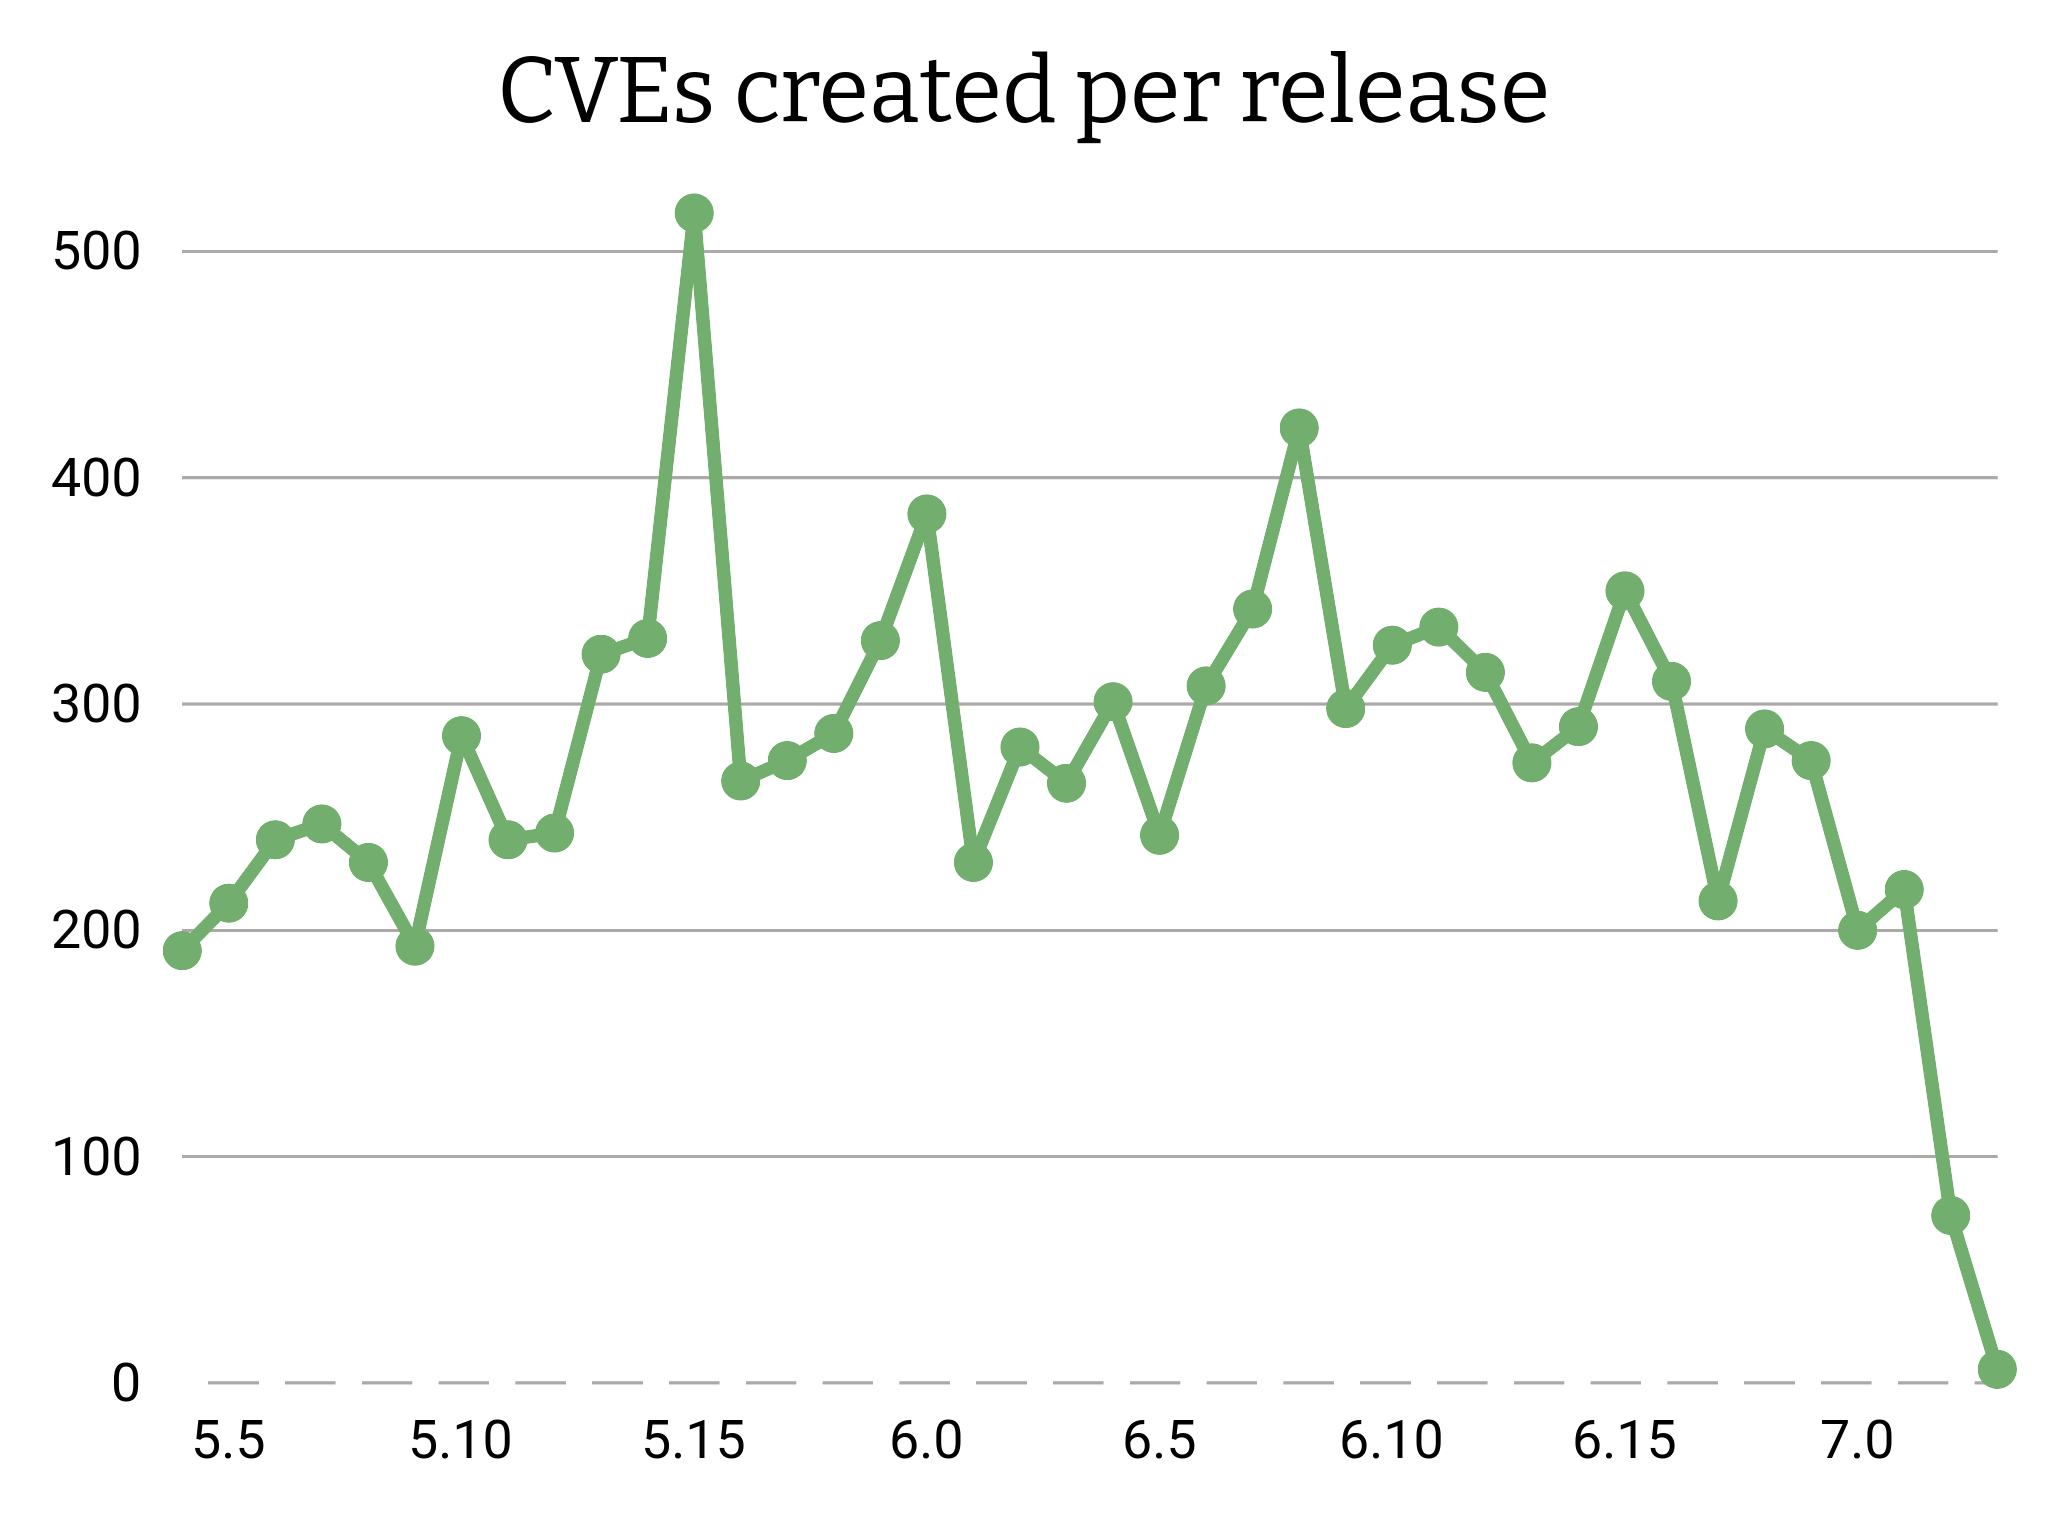
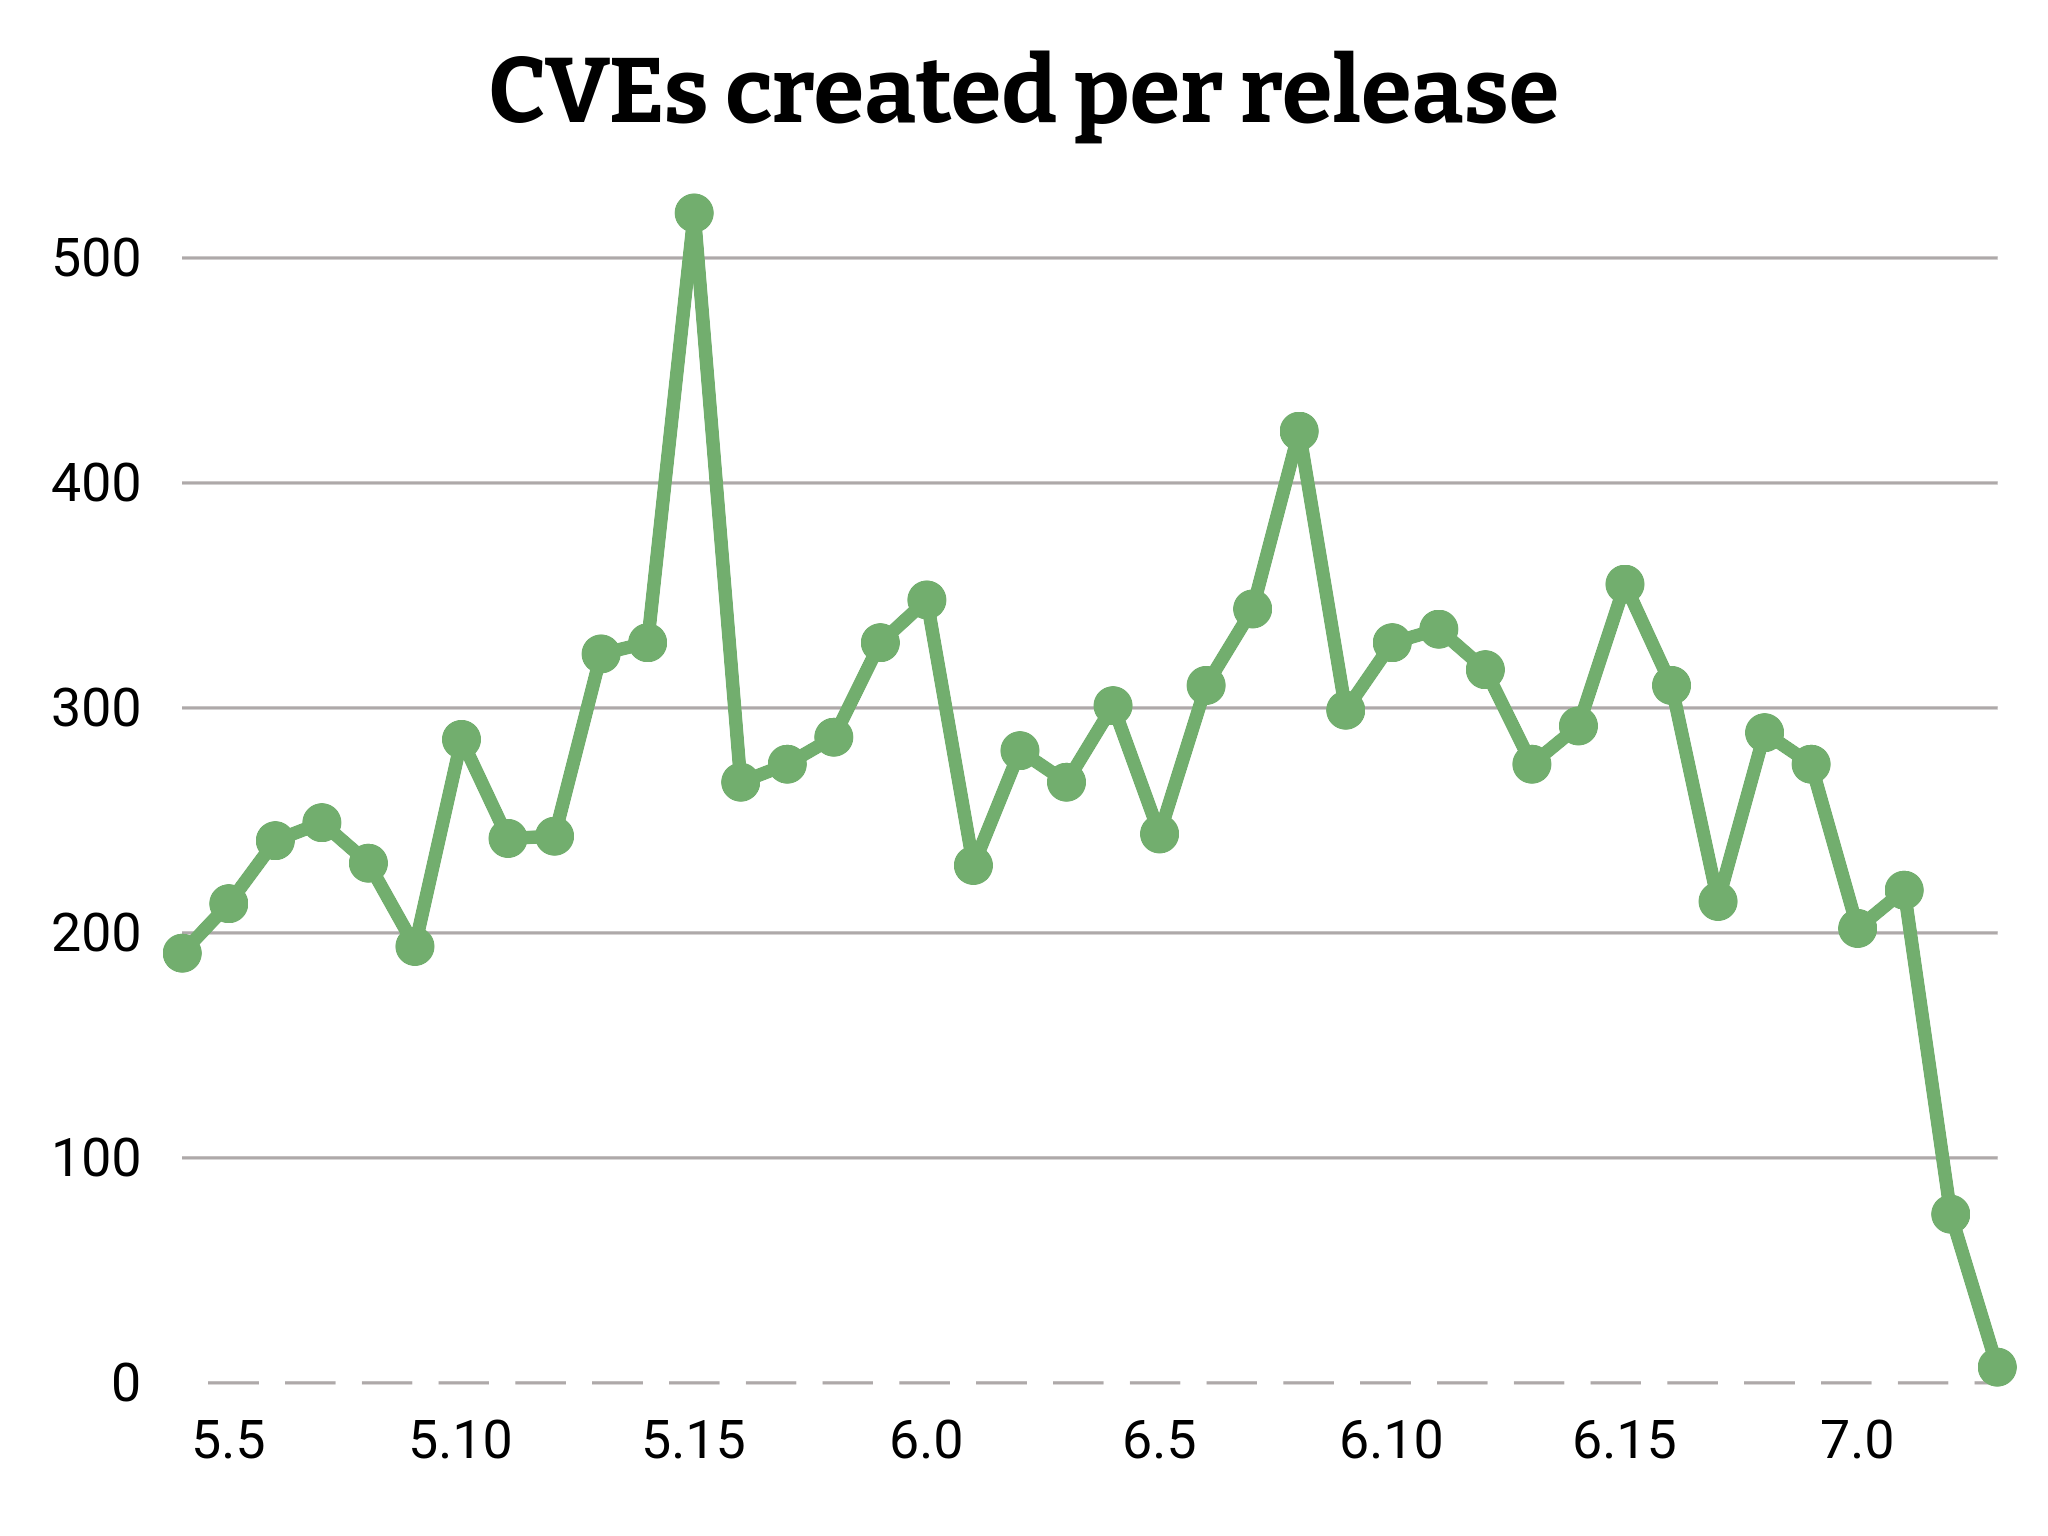
updates for the cve numbers based on latest releases

diff --git a/graphs/patches_per_release/cves_per_release.rb b/graphs/patches_per_release/cves_per_release.rb
@@ -17,6 +17,7 @@ g.labels = {
   11 => '7.0',
   12 => '7.1',
   13 => '7.2',
+  14 => '7.3',
 }
 
 g.theme = Gruff::Themes::PASTEL
@@ -42,11 +43,12 @@ g.data(' ', [
   506,  # 6.15
   475,  # 6.16
   484,  # 6.17
-  491,  # 6.18
+  490,  # 6.18
   545,  # 6.19
   1247, # 7.0
   1306, # 7.1
-  2299], # 7.2
+  2299, # 7.2
+  2755],  # 7.3
   '#72AE6E') # green
 
 g.write('cves_fixed_per_release.png')
@@ -69,7 +71,7 @@ g.labels = {
   11 => '7.0',
   12 => '7.1',
   13 => '7.2',
-  14 => '7.3-rc6',
+  14 => '7.3-rc7',
 }
 
 g.theme = Gruff::Themes::PASTEL
@@ -95,12 +97,12 @@ g.data(' ', [
   506,  # 6.15
   475,  # 6.16
   484,  # 6.17
-  491,  # 6.18
+  490,  # 6.18
   545,  # 6.19
   1247, # 7.0
   1306, # 7.1
   2299, # 7.2
-  2738],  # 7.3-rc6
+  2755],  # 7.3-rc7
   '#72AE6E') # green
 g.write('cves_fixed_per_release-rc.png')
 
@@ -153,7 +155,7 @@ g.labels = {
 g.theme = Gruff::Themes::PASTEL
 
 g.hide_legend = true
-g.title_font = 'Bitter-Regular'
+g.title_font = 'Bitter-Bold'
 #g.font = 'Bitter'
 
 g.y_axis_increment = 100
@@ -165,45 +167,45 @@ g.baseline_color = 'white'
 
 g.data(' ', [
   191,  # 5.4
-  212,  # 5.5
-  240,  # 5.6
-  247,  # 5.7
-  230,  # 5.8
-  193,  # 5.9
+  213,  # 5.5
+  241,  # 5.6
+  249,  # 5.7
+  231,  # 5.8
+  194,  # 5.9
   286,  # 5.10
-  240,  # 5.11
+  242,  # 5.11
   243,  # 5.12
-  322,  # 5.13
+  324,  # 5.13
   329,  # 5.14
-  517,  # 5.15
-  266,  # 5.16
+  520,  # 5.15
+  267,  # 5.16
   275,  # 5.17
   287,  # 5.18
-  328,  # 5.19
-  384,  # 6.0
+  329,  # 5.19
+  348,  # 6.0
   230,  # 6.1
   281,  # 6.2
-  265,  # 6.3
+  267,  # 6.3
   301,  # 6.4
-  242,  # 6.5
-  308,  # 6.6
-  342,  # 6.7
-  422,  # 6.8
-  298,  # 6.9
-  326,  # 6.10
-  334,  # 6.11
-  314,  # 6.12
-  274,  # 6.13
-  290,  # 6.14
-  350,  # 6.15
+  244,  # 6.5
+  310,  # 6.6
+  344,  # 6.7
+  423,  # 6.8
+  299,  # 6.9
+  329,  # 6.10
+  335,  # 6.11
+  317,  # 6.12
+  275,  # 6.13
+  292,  # 6.14
+  355,  # 6.15
   310,  # 6.16
-  213,  # 6.17
+  214,  # 6.17
   289,  # 6.18
   275,  # 6.19
-  200,  # 7.0
-  218,  # 7.1
-   74,  # 7.2
-    6], # 7.3
+  202,  # 7.0
+  219,  # 7.1
+   75,  # 7.2
+    7], # 7.3
   '#72AE6E') # green
 
 g.write('cves_created_per_release.png')
